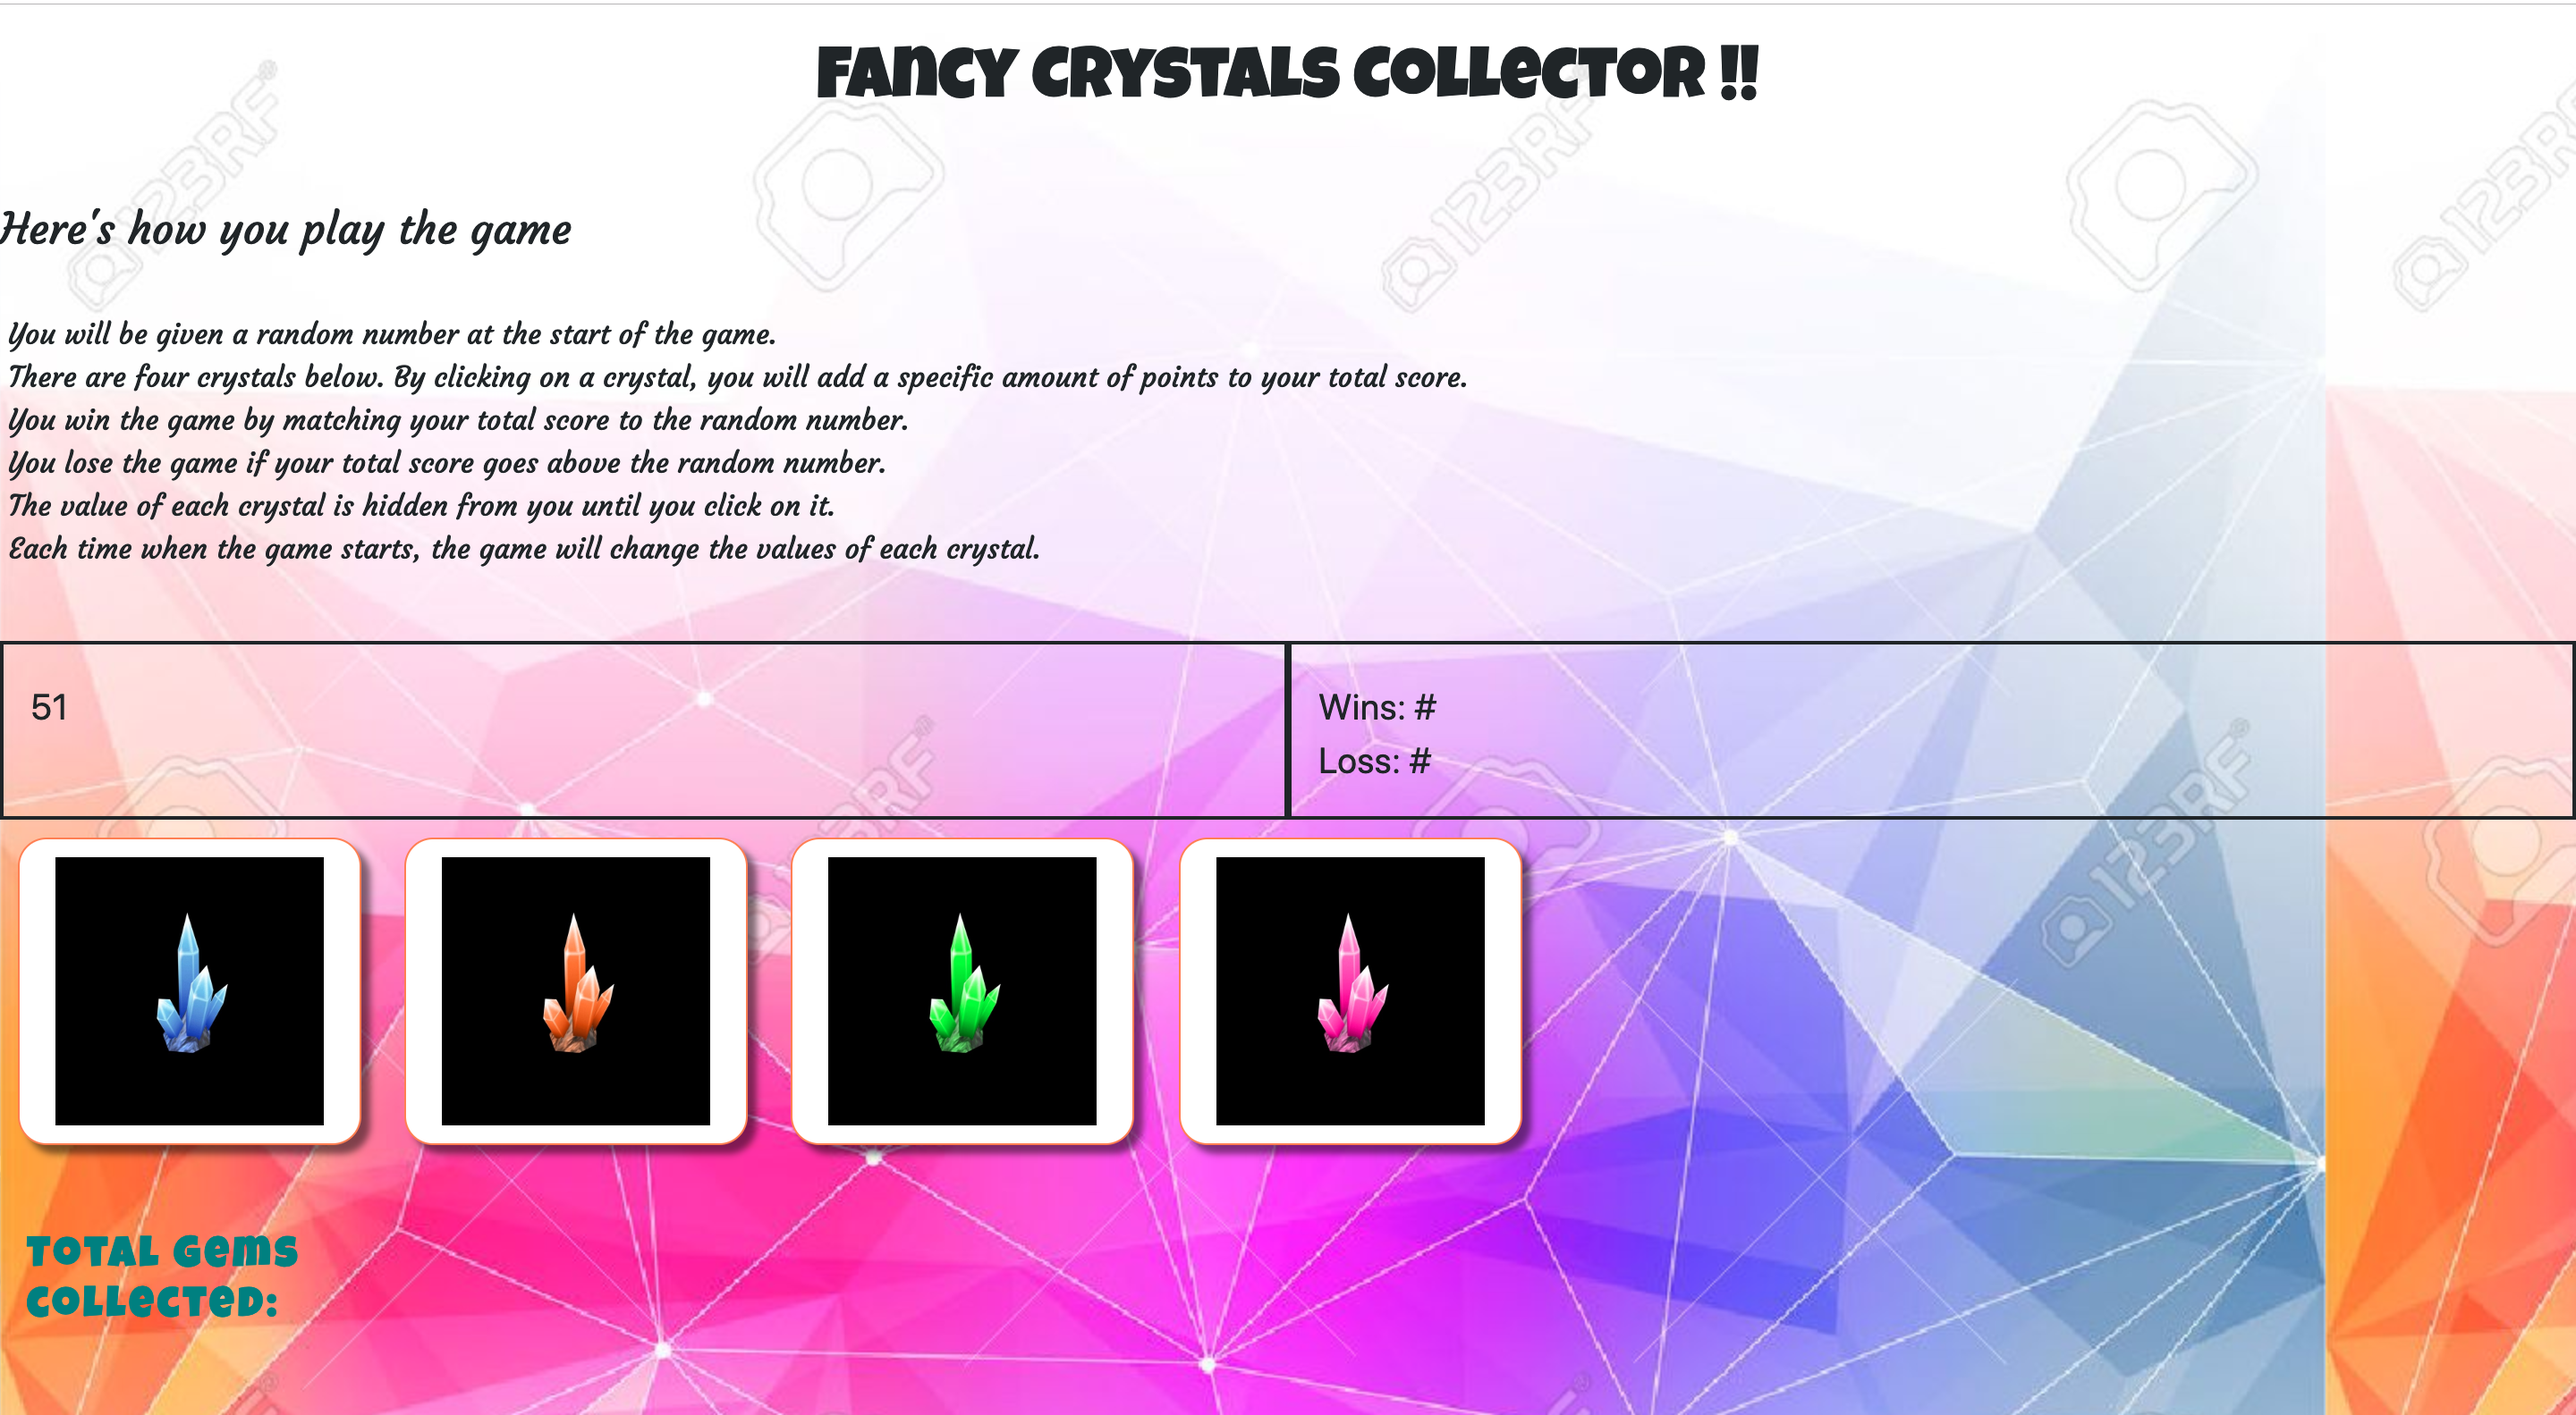
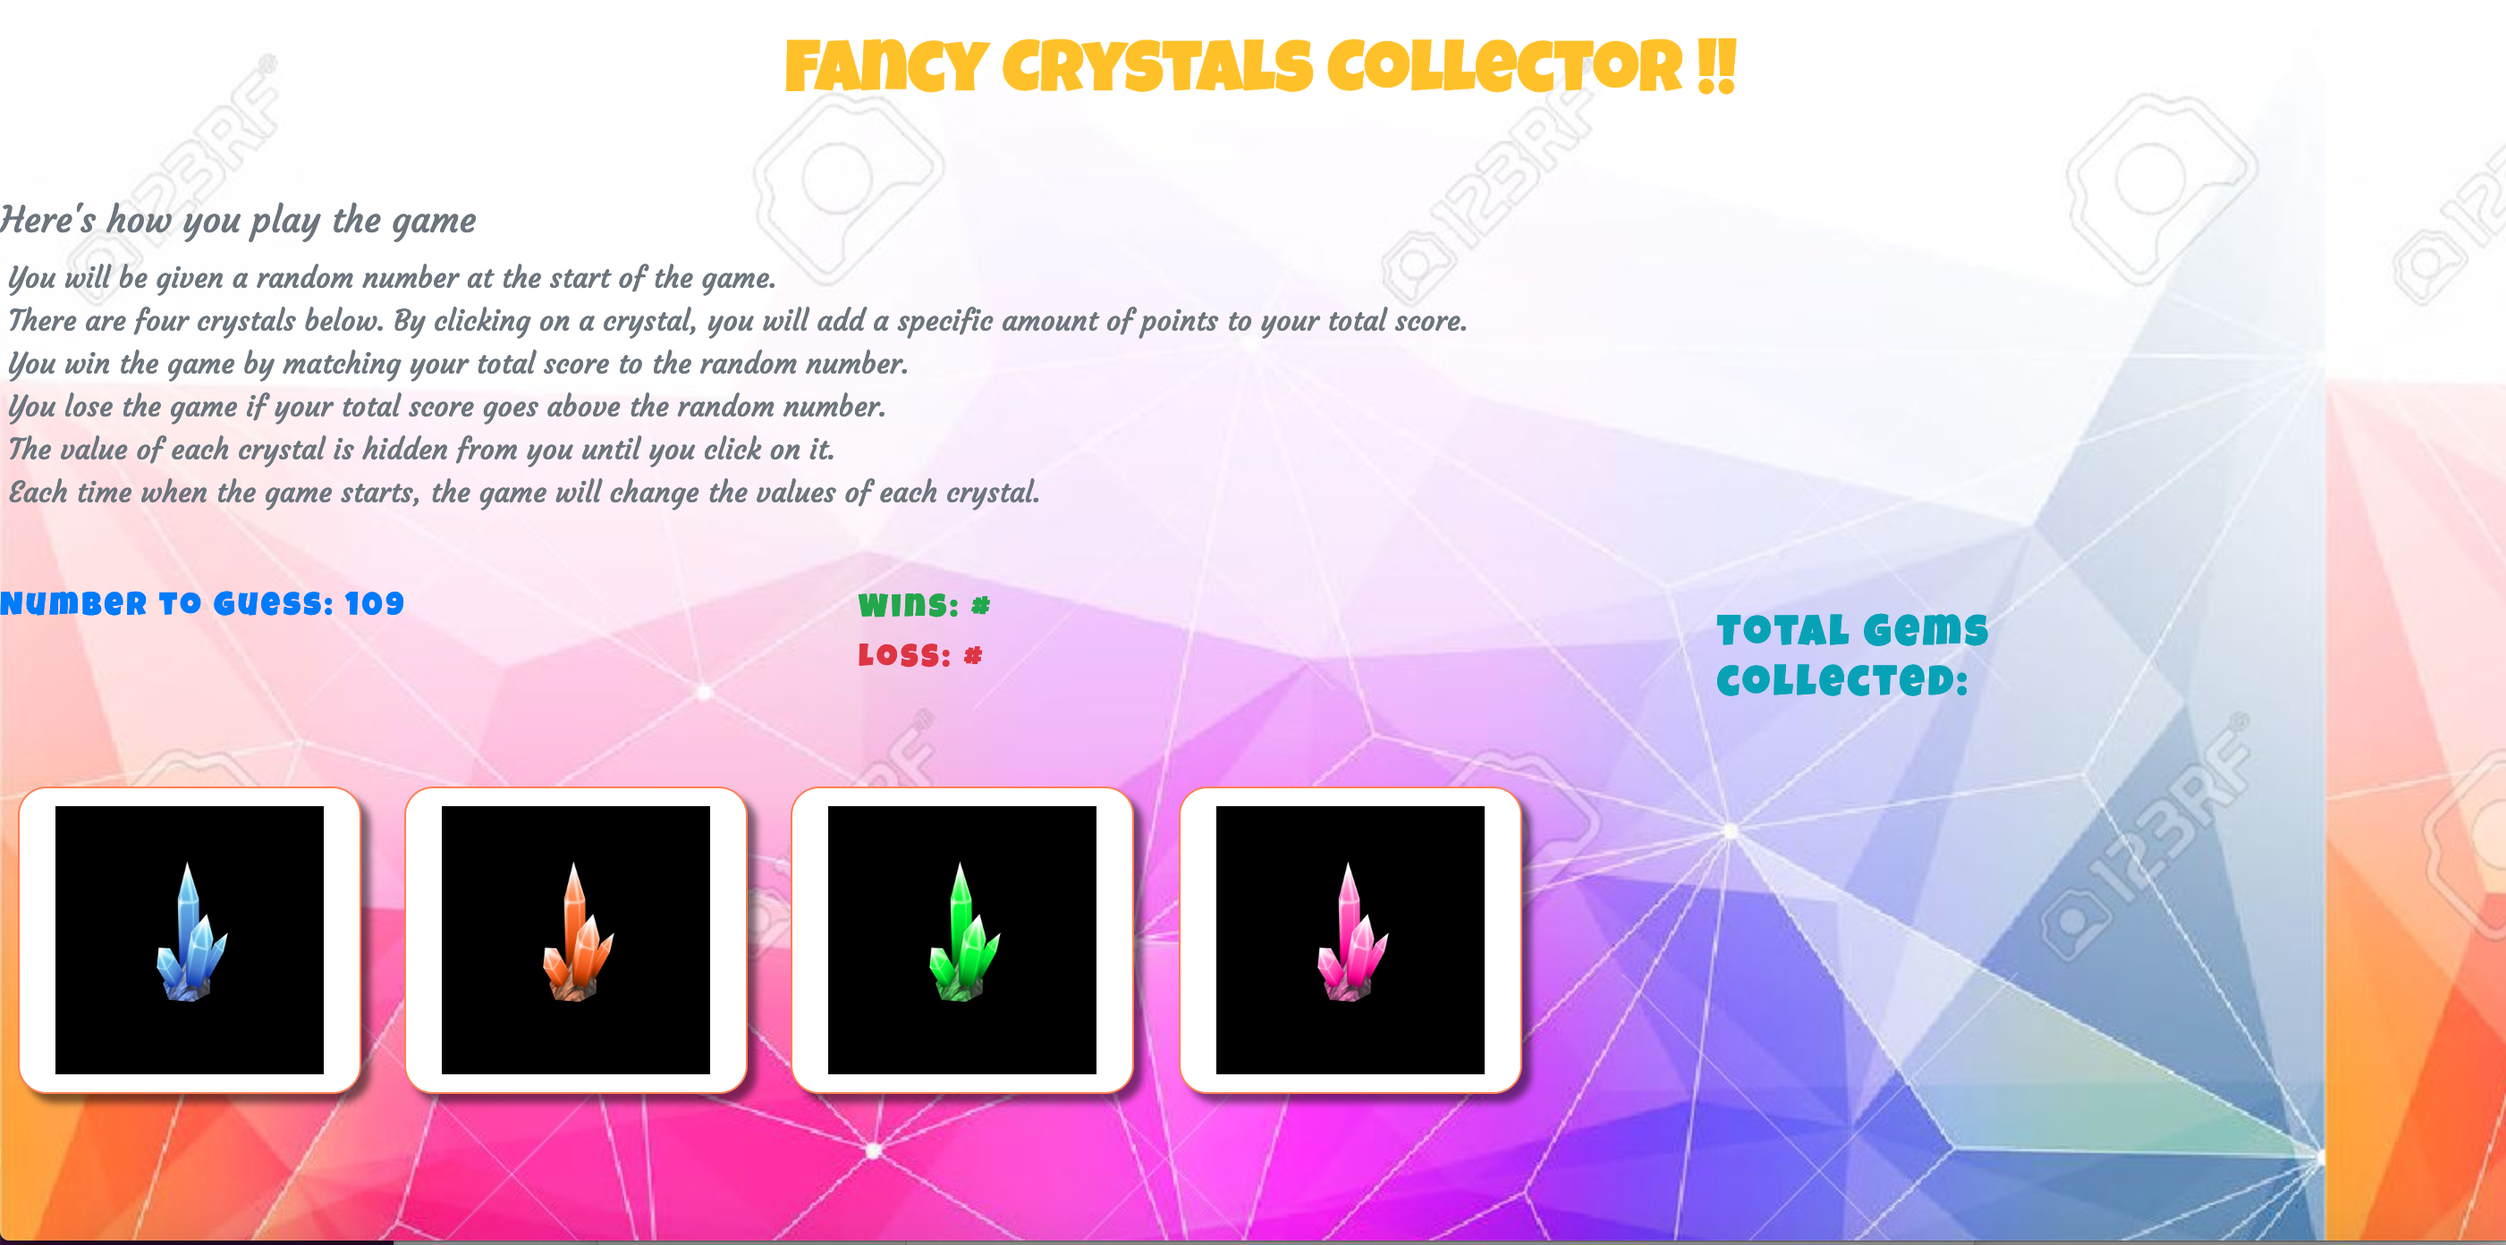
Added new img files

diff --git a/index.html b/index.html
@@ -19,13 +19,13 @@
 </head>
 
 <body>
-    <div id="gameHeader" class="heartBeat delay-2s">
+    <div id="gameHeader" class="heartBeat delay-8s text-warning">
         <h1>Fancy Crystals Collector !!</h1>
     </div>
     <br />
 
-    <div class="instructions">
-        <h4>Here's how you play the game</h4>
+    <div class="instructions text-muted">
+        <h5>Here's how you play the game</h5>
         <ol>
             <li>&nbsp;You will be given a random number at the start of the game.</li>
             <li>&nbsp;There are four crystals below. By clicking on a crystal, you will add a specific amount of points to
@@ -37,13 +37,19 @@
         </ol>
     </div>
     <br /> 
-    <div>
-        <div id="computersPick" class="col-6"> RANDOM NUMBER GENERATED
+    <div class="row" > 
+        <div id="computersPick" class="col-4 text-primary"> Number to Guess: 
         </div>
-        <div class="col-6">
+        <div class="col-4 text-success">
             <span id="wins-text"> Wins: #</span>
             <br />
-            <span id="loss-text"> Loss: #</span>
+            <span id="loss-text" class="text-danger"> Loss: #</span>
+            <!-- <img src="assets/images/winner-1.svg" id="winImg" />  -->
+        </div>
+        <div class="playersScore-text text-info">
+            <h4>Total Gems collected: </h4>
+             <span id="finalScore"></span>
+            
         </div>
     </div>
     <br /> 
@@ -61,12 +67,7 @@
             <img src="assets/images/pink-crystal.jpg" alt="Pink Crystal" class="img-button" />
         </button>
     </div>
-    <br/> 
-    <div class="playersScore-text">
-        <h4>Total Gems collected: </h4>
-         <span id="finalScore"></span>
-        
-    </div>
+  
     <!-- Link to javascript file -->
     <script src="assets/javascript/game.js"> </script>
 

diff --git a/assets/javascript/game.js b/assets/javascript/game.js
@@ -6,7 +6,7 @@ $( document ).ready(function(){
     // The random number shown at the start of the game should be between 19 - 120.
     var computersPick = Math.floor(Math.random() * 100 + 20 ) ; 
     console.log(computersPick);
-    $("#computersPick").text(computersPick); 
+    $("#computersPick").text("Number to Guess: " + computersPick); 
 
     // Setting up random numbers for each jewel
     // Random number has to be between 1 - 12
@@ -28,7 +28,7 @@ $( document ).ready(function(){
     function resetGame(){
 
         computersPick = Math.floor(Math.random() * 100 + 20 ) ; 
-        $("#computersPick").text(computersPick); 
+        $("#computersPick").text("Number to Guess: " + computersPick); 
 
         crystalOne = Math.floor(Math.random() * 11 + 1); 
         crystalTwo = Math.floor(Math.random() * 11 + 1);  
@@ -40,9 +40,11 @@ $( document ).ready(function(){
         $("#finalScore").text(playerFinalScore); 
     }   
 
+
     function winLoss(){
 
         if( computersPick === playerFinalScore){
+
             wins++; 
             $("#wins-text").text("Wins: " + wins); 
             alert("Woo hoo!! you nailed it!!"); 
@@ -50,8 +52,11 @@ $( document ).ready(function(){
             resetGame();
         }
         else if( playerFinalScore >  computersPick ){
+            
             losses++; 
             $("#loss-text").text("Loss: " + losses); 
+            console.log($("#winnerSound").text);
+            
             alert("YOU LOSE..BETTER LUCK NEXT TIME!"); 
             //Reset Game 
             resetGame();

diff --git a/assets/css/style.css b/assets/css/style.css
@@ -4,6 +4,7 @@
     width:150px; 
     height: 150px; 
     background-color: transparent; 
+    margin: auto; 
 }
 
 .btn-choice {
@@ -36,6 +37,7 @@ button:hover {
     padding: 20px; 
     font-size: 20px;
     border: solid 2px ; 
+    font-family: 'Luckiest Guy', cursive;
 
 }
 
@@ -52,18 +54,18 @@ body {
     font-family: 'Luckiest Guy', cursive;
     text-align: center; 
     margin: 20px; 
+    animation-iteration-count: infinite;
 }
 
 .playersScore-text  {
     font-size: 18px;
     letter-spacing: 2px;
-    /* background-color: teal;  */
-    color: teal;
     width: 300px;
     font-family: 'Luckiest Guy', cursive;
     padding: 15px 15px 0 15px;
-    /* height: 100px; */
 }
-#finalScore{
-    float: left; 
+#wins-text, #loss-text, #computersPick{
+    font-family: 'Luckiest Guy', cursive;
+    font-size: 18px;
+    letter-spacing: 2px;
 }
